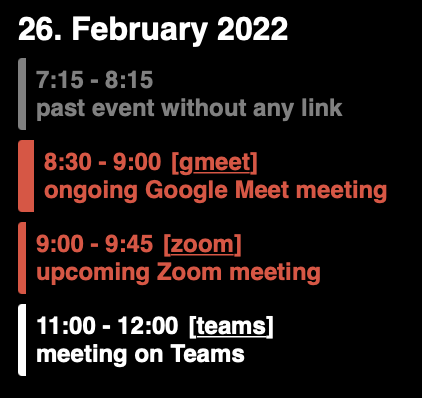
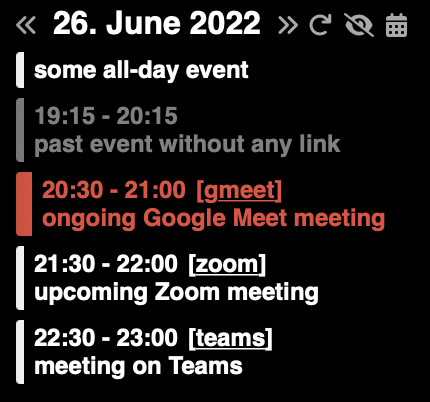
Update README

Changed region(s): [[0.0308, 0.0, 0.9242, 0.9648], [0.8934, 0.0302, 0.955, 0.0905], [0.8009, 0.0302, 0.8626, 0.0905]]

diff --git a/README.md b/README.md
@@ -11,6 +11,8 @@ A currently ongoing event will be highlighted with red text and with a thicker b
 Events that start within the next 30 minutes will be highlighted with red text only.
 Past events use grey text.
 
+The buttons next to the date allow you to navigate between days, jump back to today, hide all events (for privacy) and open the Calendar desktop application (or a replacement if desired).
+
 It requires a dark background or modifications to the colors to be properly readable.
 
 Inspiration and some code was taken from [`knazarov/ubersicht-calendar-widget`](https://github.com/knazarov/ubersicht-calendar-widget).
@@ -22,3 +24,6 @@ Inspiration and some code was taken from [`knazarov/ubersicht-calendar-widget`](
 
 ## Ideas for enhancements
 
+- Fetch multiple days in background to speed up.
+- Have reproducible way to generate screenshots.
+- Add background color and opacity to customizable variables.
